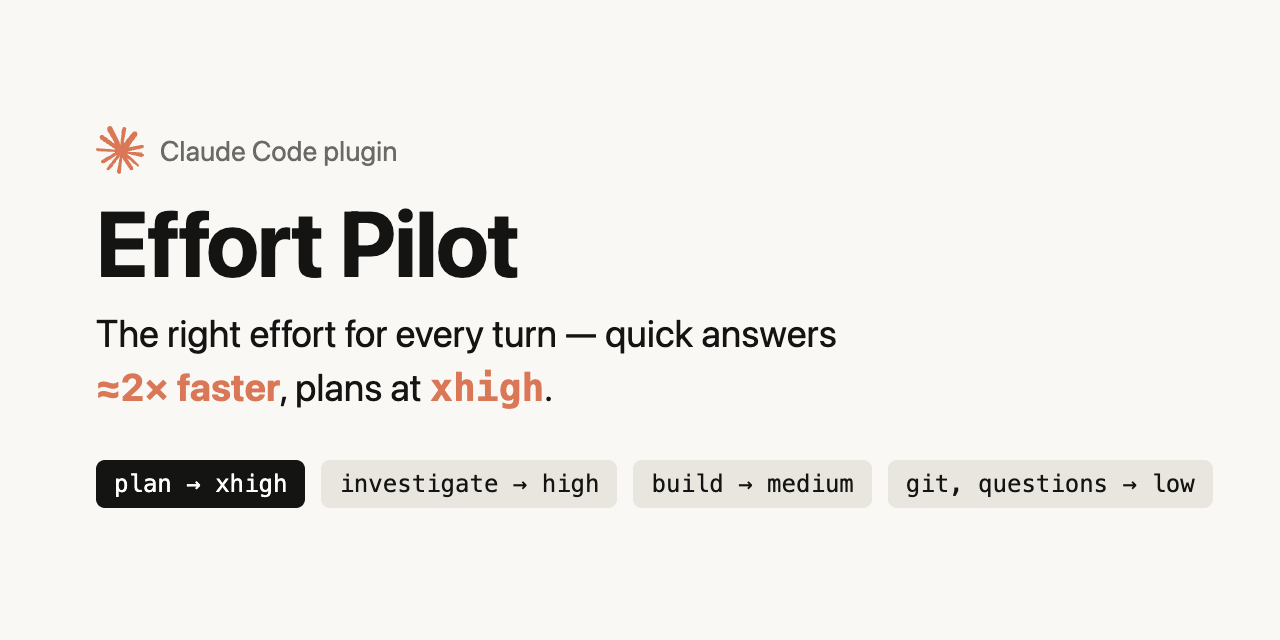
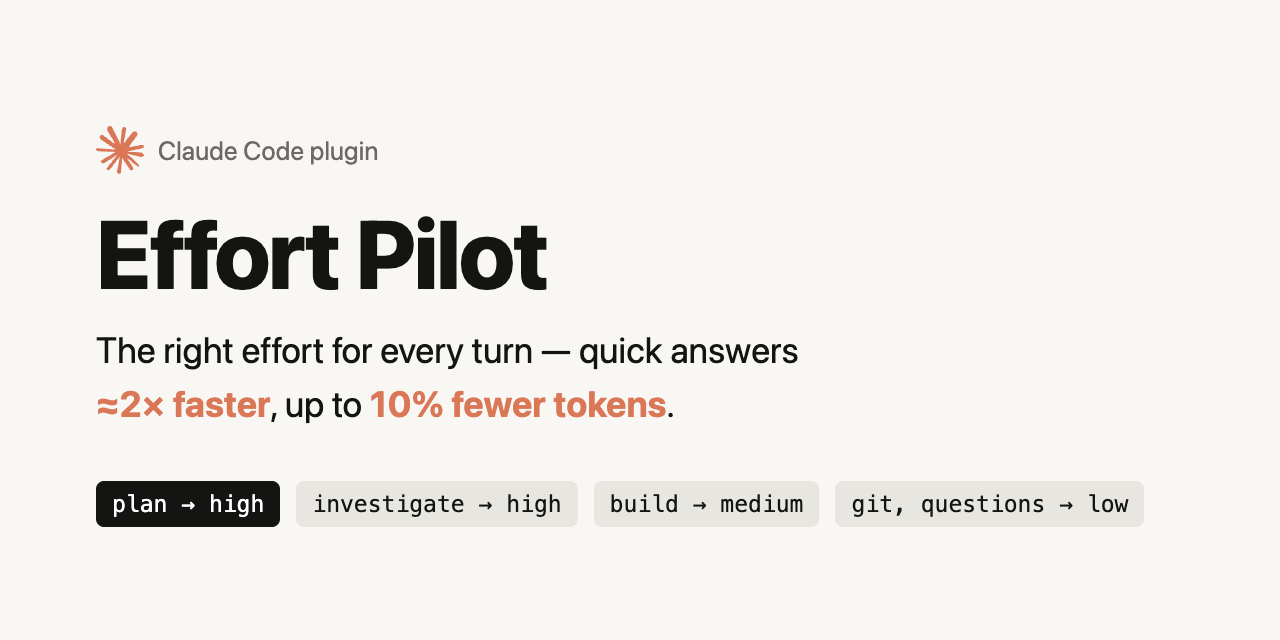
1.9.0: plans and plan mode run at high by default
Plans and plan mode now default to high instead of xhigh: the same depth as
leaving effort on high, at less cost and time per planning turn. Set
planEffort to xhigh or max for deeper plans; a saved value is kept.

README, charts (hero-5.svg, why-4.svg), social card and manifest
descriptions say plans run at high; the chart's plans row gives way to the
token figure the README already states.

diff --git a/plugin/hooks/route.test.ts b/plugin/hooks/route.test.ts
@@ -8,13 +8,13 @@ const route = (phase: Route['phase'], effort: Route['effort'], extra: Partial<Ro
 const task = (phase: Task['phase'], effort: Task['effort']): Task => ({ phase, hard: false, effort, text: 'the work' })
 
 describe('effortFor', () => {
-  test('plan xhigh, analyze high, build medium or high when hard, talk low', () => {
-    expect(effortFor('plan', false)).toBe('xhigh')
+  test('plan high, analyze high, build medium or high when hard, talk low', () => {
+    expect(effortFor('plan', false)).toBe('high')
     expect(effortFor('analyze', false)).toBe('high')
     expect(effortFor('implement', false)).toBe('medium')
     expect(effortFor('fix', true)).toBe('high')
     expect(effortFor('chat', false)).toBe('low')
-    expect(effortFor('trivial', false, true)).toBe('xhigh')
+    expect(effortFor('trivial', false, true)).toBe('high')
   })
 })
 
@@ -279,21 +279,21 @@ describe('report', () => {
 
 describe('settings', () => {
   // The manifest's defaults, as /config stores them.
-  const manifest = { planEffort: 'xhigh', analyzeEffort: 'high', buildEffort: 'medium', hardBuildEffort: 'high', talkEffort: 'low', managedModels: 'opus,fable', headless: false, measure: false, controlShare: 30 }
-  test('the defaults are the table: plan xhigh, analyze high, build medium, hard build high, talk low', () => {
+  const manifest = { planEffort: 'high', analyzeEffort: 'high', buildEffort: 'medium', hardBuildEffort: 'high', talkEffort: 'low', managedModels: 'opus,fable', headless: false, measure: false, controlShare: 30 }
+  test('the defaults are the table: plan high, analyze high, build medium, hard build high, talk low', () => {
     expect(configFrom(manifest)).toEqual(DEFAULTS)
     expect(configFrom({})).toEqual(DEFAULTS)
     const c = configFrom(manifest)
-    expect(effortFor('plan', false, false, c)).toBe('xhigh')
+    expect(effortFor('plan', false, false, c)).toBe('high')
     expect(effortFor('analyze', false, false, c)).toBe('high')
     expect(effortFor('implement', false, false, c)).toBe('medium')
     expect(effortFor('fix', true, false, c)).toBe('high')
     expect(effortFor('chat', false, false, c)).toBe('low')
     expect(effortFor('trivial', false, false, c)).toBe('low')
-    expect(effortFor('chat', false, true, c)).toBe('xhigh')
+    expect(effortFor('chat', false, true, c)).toBe('high')
   })
   test('a value outside the levels falls back to its default', () => {
-    expect(configFrom({ planEffort: 'huge', buildEffort: 3 }).plan).toBe('xhigh')
+    expect(configFrom({ planEffort: 'huge', buildEffort: 3 }).plan).toBe('high')
     expect(configFrom({ planEffort: 'huge', buildEffort: 3 }).build).toBe('medium')
   })
   test('a custom table moves every rule that reads it', () => {
@@ -519,9 +519,9 @@ describe('two reads of a level asked', () => {
 
   test('the build level is lowered the same way', () => {
     expect(agreed(read({ phase: 'plan', build: 'max' }), read({ phase: 'plan', build: 'high' })).build).toBe('high')
-    const dropped = agreed(read({ phase: 'plan', build: 'high' }), read({ phase: 'plan' }))
+    const dropped = agreed(read({ phase: 'plan', build: 'low' }), read({ phase: 'plan' }))
     expect(dropped.build).toBe(undefined)
-    expect(dropped.effort).toBe('xhigh')
+    expect(dropped.effort).toBe('high')
   })
 
   test('a level taken back only when both reads take it back', () => {

diff --git a/plugin/hooks/plan.test.ts b/plugin/hooks/plan.test.ts
@@ -92,7 +92,7 @@ test('an approved plan adds one line naming the build effort, and the next reque
   await exit($)
   await step($, 1)
   expect(seen.added).toEqual(['Effort Pilot: reasoning effort is now medium, for carrying out the approved plan.'])
-  expect(seen.sent).toEqual(['xhigh', 'medium'])
+  expect(seen.sent).toEqual(['high', 'medium'])
 })
 
 test('the request after an approved plan counts as gone at the build effort, not the planning one', async ($, on) => {
@@ -101,7 +101,7 @@ test('the request after an approved plan counts as gone at the build effort, not
   await exit($)
   await step($, 1)
   await step($, 2)
-  expect(await stats($)).toContain('xhigh: 1 requests')
+  expect(await stats($)).toContain('high: 1 requests')
   expect(await stats($)).toContain('medium: 2 requests')
 })
 
@@ -148,8 +148,8 @@ test('plan mode entered mid-turn adds one line naming the plan effort, and the n
   await building($)
   await enter($)
   await step($, 1)
-  expect(seen.added).toEqual(['Effort Pilot: reasoning effort is now xhigh, for planning.'])
-  expect(seen.sent).toEqual(['medium', 'xhigh'])
+  expect(seen.added).toEqual(['Effort Pilot: reasoning effort is now high, for planning.'])
+  expect(seen.sent).toEqual(['medium', 'high'])
 })
 
 test('plan mode entered by a subagent adds nothing', async ($, on) => {
@@ -175,9 +175,9 @@ test('a prompt typed in plan mode with no effort asked records the plan effort a
   const seen = engine(on, PLAN)
   await planning($)
   await complete($)
-  expect(seen.status.at(-1)).toBe('effort: xhigh plan')
+  expect(seen.status.at(-1)).toBe('effort: high plan')
   const [r] = seen.records()
-  expect(r).toEqual(expect.objectContaining({ phase: 'plan', chosen: 'xhigh', sent: 'xhigh' }))
+  expect(r).toEqual(expect.objectContaining({ phase: 'plan', chosen: 'high', sent: 'high' }))
   expect(r?.asked).toBe(undefined)
 })
 
@@ -198,7 +198,7 @@ test('a turn that plans and has its plan approved records the plan effort as cho
   await step($, 1)
   await complete($)
   const [r] = seen.records()
-  expect(r).toEqual(expect.objectContaining({ phase: 'plan', chosen: 'xhigh', sent: 'xhigh' }))
+  expect(r).toEqual(expect.objectContaining({ phase: 'plan', chosen: 'high', sent: 'high' }))
   expect(r?.asked).toBe(undefined)
 })
 
@@ -217,6 +217,6 @@ test('a plan asked for outside plan mode is not marked as plan mode', { options:
   await step($, 0)
   await complete($)
   const [r] = seen.records()
-  expect(r).toEqual(expect.objectContaining({ phase: 'plan', sent: 'xhigh' }))
+  expect(r).toEqual(expect.objectContaining({ phase: 'plan', sent: 'high' }))
   expect(r?.planMode).toBe(undefined)
 })

diff --git a/plugin/hooks/command.test.ts b/plugin/hooks/command.test.ts
@@ -86,9 +86,9 @@ describe('a skill or prompt command the person types', () => {
     await typeCommand($, 'tools:create-plan', 'design an export of the reports page to CSV, then build it')
     expect(seen.calls).toBe(1)
     expect(seen.prompts[0]).toContain('/tools:create-plan design an export of the reports page to CSV, then build it')
-    expect(seen.status).toEqual(['effort: xhigh plan'])
+    expect(seen.status).toEqual(['effort: high plan'])
     await turn($, 't1', '/tools:create-plan')
-    expect(seen.sent).toEqual(['xhigh'])
+    expect(seen.sent).toEqual(['high'])
   })
 
   test('with arguments is classified from the line alone: the arguments are the request', async ($, on) => {
@@ -106,7 +106,7 @@ describe('a skill or prompt command the person types', () => {
     expect(seen.prompts[0]).toContain('/deep-review')
     expect(seen.prompts[0]).toContain(description)
     expect(seen.prompts[0]).not.toContain('Read the diff.')
-    expect(seen.status).toEqual(['effort: xhigh plan'])
+    expect(seen.status).toEqual(['effort: high plan'])
   })
 
   test('with no arguments and no description, from the start of the prompt it expands to', async ($, on) => {
@@ -137,7 +137,7 @@ describe('a command that is not expanded for the model', () => {
     expect(seen.status).toEqual([])
   })
 
-  test('the turn it starts is no one\'s: the last turn\'s who does not label it, and the person\'s own effort stands', { options: { measure: true, controlShare: 0 } }, async ($, on) => {
+  test('the turn it starts is no one\'s: the last turn\'s who does not label it, and the person\'s own effort stands', { options: { measure: true, controlShare: 0, planEffort: 'xhigh' } }, async ($, on) => {
     const seen = await session($, on, name => (name === 'tools:create-plan' ? PLAIN : null))
     await typeCommand($, 'tools:create-plan', 'design an export of the reports page')
     await turn($, 't1', '/tools:create-plan')

diff --git a/plugin/hooks/clear.test.ts b/plugin/hooks/clear.test.ts
@@ -44,14 +44,14 @@ test('the first prompt of a session that began with no session.start (after /cle
   const seen = engine(on)
   await $.prompt.submit({ text: 'Plan a CSV export for the reports page.', origin: { kind: 'composer' } } as never)
   expect(seen.calls).toBe(1)
-  expect(seen.status).toEqual(['effort: xhigh plan'])
+  expect(seen.status).toEqual(['effort: high plan'])
 })
 
 test('its first request goes at the classified effort, not the session\'s own', async ($, on) => {
   const seen = engine(on)
   await $.prompt.submit({ text: 'Plan a CSV export for the reports page.', origin: { kind: 'composer' } } as never)
   await firstRequest($, 't1')
-  expect(seen.sent).toEqual(['xhigh'])
+  expect(seen.sent).toEqual(['high'])
 })
 
 test('a model the pilot leaves alone stays alone after /clear too', async ($, on) => {
@@ -114,7 +114,7 @@ test('after /clear, /effort-pilot on hands the effort back to the pilot', async 
   await $.prompt.submit({ text: 'Plan a CSV export for the reports page.', origin: { kind: 'composer' } } as never)
   await firstRequest($, 't1')
   expect(seen.calls).toBe(1)
-  expect(seen.sent).toEqual(['xhigh'])
+  expect(seen.sent).toEqual(['high'])
 })
 
 test('with the pilot on, the first prompt after /clear is routed', async ($, on) => {
@@ -124,7 +124,7 @@ test('with the pilot on, the first prompt after /clear is routed', async ($, on)
   await $.prompt.submit({ text: 'Plan a CSV export for the reports page.', origin: { kind: 'composer' } } as never)
   await firstRequest($, 't1')
   expect(seen.calls).toBe(2)
-  expect(seen.sent).toEqual(['xhigh'])
+  expect(seen.sent).toEqual(['high'])
 })
 
 test('two /clear in a row keep the person\'s choice too', async ($, on) => {

diff --git a/plugin/hooks/route.ts b/plugin/hooks/route.ts
@@ -4,7 +4,7 @@ export const EFFORTS: readonly Effort[] = ['low', 'medium', 'high', 'xhigh', 'ma
 export const PHASES: readonly Phase[] = ['plan', 'analyze', 'implement', 'fix', 'trivial', 'chat']
 
 /** The settings' defaults: the effort table and the models it applies to. */
-export const DEFAULTS: Config = { plan: 'xhigh', analyze: 'high', build: 'medium', hardBuild: 'high', talk: 'low', models: ['opus', 'fable'], agents: [], sessionAgent: '' }
+export const DEFAULTS: Config = { plan: 'high', analyze: 'high', build: 'medium', hardBuild: 'high', talk: 'low', models: ['opus', 'fable'], agents: [], sessionAgent: '' }
 
 /**
  * The settings as the plugin's options hold them (userConfig): a missing or unknown value falls back to its default,

diff --git a/plugin/hooks/notice.test.ts b/plugin/hooks/notice.test.ts
@@ -73,7 +73,7 @@ describe('a notification with work under way', () => {
     expect(seen.sent).toEqual(['high', 'high'])
   })
 
-  test('an agent\'s result during a plan, read as chat, goes at high', async ($, on) => {
+  test('an agent\'s result during a plan at xhigh, read as chat, goes at high', { options: { planEffort: 'xhigh' } }, async ($, on) => {
     const seen = await session($, on, [pick('plan'), pick('chat')])
     await turn($, 't1', 'Plan the CSV export of the reports page.', 'composer')
     await turn($, 't2', agentDone, 'task-notification')

diff --git a/README.md b/README.md
@@ -2,7 +2,7 @@
 
 ### The right reasoning effort for every turn in <img src="assets/claude-inline.svg" height="30" alt=""> Claude Code, set for you.
 
-Effort Pilot switches the reasoning effort for every turn, automatically: plans get `xhigh`, building gets `medium`, questions and trivial tasks — a git commit, a push, a rename — get `low`. Deep thinking goes where it counts, and a quick question no longer waits on it.
+Effort Pilot switches the reasoning effort for every turn, automatically: plans get `high`, building gets `medium`, questions and trivial tasks — a git commit, a push, a rename — get `low`. Deep thinking goes where it counts, and a quick question no longer waits on it.
 
 [![version](https://img.shields.io/github/v/release/vadympetryshyn/effort-pilot?label=version&color=d97757)](https://github.com/vadympetryshyn/effort-pilot/releases)
 [![CI](https://github.com/vadympetryshyn/effort-pilot/actions/workflows/ci.yml/badge.svg)](https://github.com/vadympetryshyn/effort-pilot/actions/workflows/ci.yml)
@@ -10,16 +10,16 @@ Effort Pilot switches the reasoning effort for every turn, automatically: plans 
 [![stars](https://img.shields.io/github/stars/vadympetryshyn/effort-pilot?style=flat&color=d97757)](https://github.com/vadympetryshyn/effort-pilot/stargazers)
 [![last commit](https://img.shields.io/github/last-commit/vadympetryshyn/effort-pilot)](https://github.com/vadympetryshyn/effort-pilot/commits/main)
 
-<img src="assets/hero-4.svg" alt="Effort Pilot switching effort: xhigh to plan, high to investigate, medium to build, low to commit and push" width="820">
+<img src="assets/hero-5.svg" alt="Effort Pilot switching effort: high to plan and to investigate, medium to build, low to commit and push" width="820">
 
 ## What you get
 
 Compared with leaving effort on `high` all the time, on the author's own turns:
 
-<img src="assets/why-3.svg" alt="Effort Pilot vs. always-on high: quick questions answered about twice as fast, plans thought through at xhigh, effort set every turn without /effort" width="820">
+<img src="assets/why-4.svg" alt="Effort Pilot vs. always-on high: quick questions answered about twice as fast, up to 10% fewer tokens, effort set every turn without /effort" width="820">
 
 - **Quick answers, about twice as fast.** A question or a chat turn runs at `low`: its median model time is about half of what it is at `high` (−52%, 90% range −22% … −68%).
-- **Plans at `xhigh`.** Plans and plan mode get more thinking than `high`, where a wrong plan costs the most.
+- **Plans lose nothing.** Plans and plan mode run at `high`, the same depth as always-on `high`; set `planEffort` to `xhigh` or `max` for more.
 - **Up to 10% fewer tokens.** Every turn that drops from `high` to `medium` or `low` thinks less, so it spends fewer tokens. How much you save depends on your settings: the more levels you set below `high`, the more you save.
 - **Nothing to switch.** You never type `/effort`; the line above the prompt shows what it picked and why.
 
@@ -62,7 +62,7 @@ Before each turn a small, fast model (Haiku, ≈ $0.0004 a turn) reads your mess
 
 | You… | Phase | Effort |
 |---|---|---|
-| ask for a plan, or use plan mode | plan | `xhigh` |
+| ask for a plan, or use plan mode | plan | `high` |
 | ask a hard question, investigate a bug | analyze | `high` |
 | ask to build or fix something | implement / fix | `medium` (`high` when hard) |
 | approve a plan | implement | `medium` — the thinking went into the plan |
@@ -73,7 +73,7 @@ A band above the prompt shows the effort now, how it got there and why. Follow-u
 ## Features
 
 - 🗣 **Just say it.** "do this on max", "medium is enough", "plan it, then build on high" — in any language, typed or dictated. `ultrathink` runs that work at `xhigh`, as Claude Code does (with `CLAUDE_CODE_DISABLE_ULTRATHINK` set, the word asks for nothing). "back to auto" hands it back.
-- 🧭 **Plan mode** runs at `xhigh`; the approved plan is built at `medium`.
+- 🧭 **Plan mode** runs at `high`; the approved plan is built at `medium`.
 - 🤖 **Subagents** get their own effort, on the session's model or another one (never below the build effort, `medium` by default). An effort the Agent call names, or `CLAUDE_CODE_SUBAGENT_EFFORT`, is left alone. Your own and plugin agents keep their own effort unless you list them (below). Each subagent's effort is shown: in its description, or in one transcript line at its first request.
 - 🔔 **Background results** and messages from other sessions are read too: one the agent only relays or hands to the next agent goes at the build effort (at `high` while a plan or an analysis is under way); one that reports a failure, a background command's output, or a step in hard work keeps the effort of the work it serves.
 - ✋ **You stay in charge.** `/effort <level>` pins it; `/effort-pilot on` resumes.
@@ -96,7 +96,7 @@ All in `/config` → **effort-pilot**.
 
 | Setting | Default | |
 |---|---|---|
-| `planEffort` | `xhigh` | plans and plan mode |
+| `planEffort` | `high` | plans and plan mode |
 | `analyzeEffort` | `high` | hard questions, investigations |
 | `buildEffort` | `medium` | building and fixing |
 | `hardBuildEffort` | `high` | building that is hard (many files, tricky logic, a bug of unknown cause, push, deploy, deletes) |

diff --git a/CHANGELOG.md b/CHANGELOG.md
@@ -2,6 +2,10 @@
 
 All notable changes. Format: [Keep a Changelog](https://keepachangelog.com/en/1.1.0/); versions: [SemVer](https://semver.org/).
 
+## [1.9.0] — 2026-11-10
+
+- Plans and plan mode now run at `high` by default instead of `xhigh`: the same depth as leaving effort on `high`, at less cost and time per planning turn. If you prefer the deeper plans, set `planEffort` to `xhigh` (or `max`) in `/config` → **effort-pilot**; a value you saved yourself is kept. Asking for a level in words ("plan it on xhigh") and `ultrathink` work as before.
+
 ## [1.8.2] — 2026-11-10
 
 - A level you name for another AI or tool to run at ("have Codex write the articles at high effort") is no longer taken as the effort you asked Claude to think at. It was read as your ask, and since an asked level holds for the whole piece of work, the plan it came with and the turns after it ran at that level. Such a level now counts as a setting, like a level named as a default or a rule; a level you name for Claude's own work holds as before.
